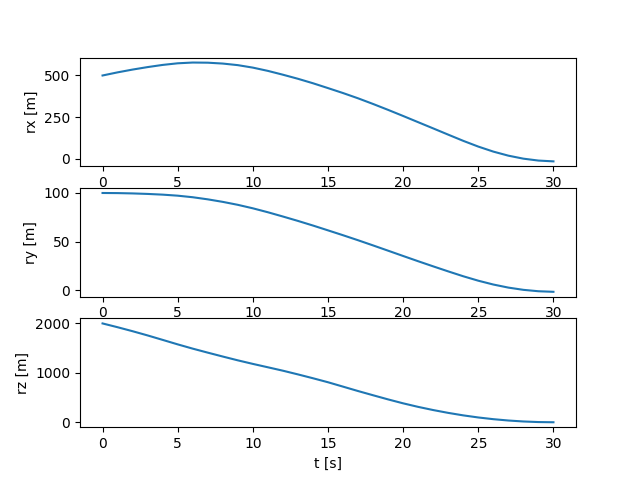
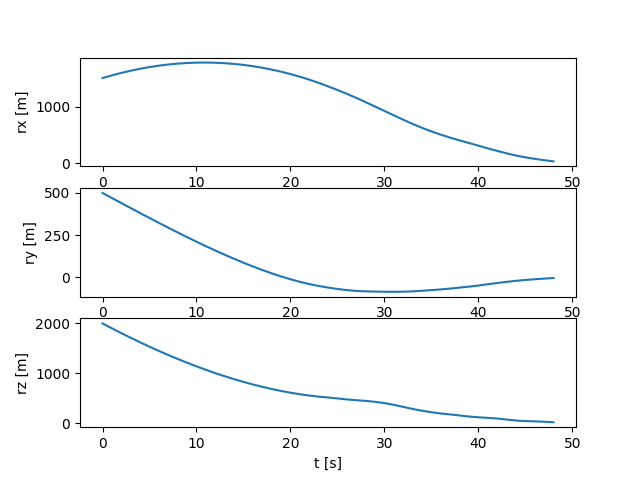
trying new mpc with constant N

diff --git a/gfold/3dof_mpc_constantN_2.py b/gfold/3dof_mpc_constantN_2.py
@@ -55,7 +55,7 @@ def run_mpc(  N,                # receding horizon (parameter)
               α, ρ1, ρ2,        # Constraint parameters
               r0, v0, wet_mass, # initial constraints (parameters)
               rf, vf,           # terminal contraints
-              dt, g, γ, θ, n    # constants
+              dt, g, γ, θ, n, m_dry    # constants
     ):
     # CVX variables
     r = cp.Variable((N,3))
@@ -65,14 +65,23 @@ def run_mpc(  N,                # receding horizon (parameter)
     σ = cp.Variable(N)
     
     ## Objective
-    objective = cp.Minimize(-z[N-1])
+    objective = 0
+    objective += -z[N-1]
+    objective += 1000*cp.norm2(rf - r[N-1])
+    objective += 1000*cp.norm2(vf - v[N-1])
+    
+    # Try to get to goal at each time step
+    for i in range(N):
+        objective += 100*cp.norm2(rf - r[i])
+        objective += 100*cp.norm2(vf - v[i])
     
     constraints = []
     
     ## Terminal Constraints
     constraints += [
-        r[N-1] == rf,
-        v[N-1] == vf
+        # r[N-1] == rf,
+        # v[N-1] == vf,
+        z[N-1] >= np.log(m_dry)
     ]
     
     ## Initial Condition Constraints
@@ -121,6 +130,7 @@ def run_mpc(  N,                # receding horizon (parameter)
         ]
 
     ## Solve Problem
+    objective = cp.Minimize(objective)
     prob = cp.Problem(objective,constraints)
     prob.solve()
     status = prob.status
@@ -163,7 +173,7 @@ def run_mpc(  N,                # receding horizon (parameter)
 
 g0 = 9.80665
 dry_mass = 20569
-wet_mass = 28000 # Assumed from start of landing burn
+wet_mass = 30000 # Assumed from start of landing burn
 Isp = 260
 max_throttle = 0.8 # Safety
 min_throttle = 0.1
@@ -196,6 +206,8 @@ ts = np.arange(0,tf+dt,dt)
 
 N = N0
 
+N_fixed = 20
+
 ## Looping vars
 s = 7
 m = 3
@@ -215,7 +227,7 @@ objective_choice = 'fuel_opt'
 
 for t in tqdm(range(N0-1)):
     # Solve Convex Problem
-    r, v, mass, u, status = run_mpc(N, α, ρ1, ρ2, r0, v0, wet_mass,rf, vf, dt, g, γ, θ, n)
+    r, v, mass, u, status = run_mpc(N_fixed, α, ρ1, ρ2, r0, v0, wet_mass,rf, vf, dt, g, γ, θ, n, dry_mass)
     
     if status == 'infeasible':
         break
@@ -234,11 +246,15 @@ for t in tqdm(range(N0-1)):
     r0 = x_hist[t+1, 0:3]
     v0 = x_hist[t+1, 3:6]
     wet_mass = x_hist[t+1,6]
-    
+
+print(r0)
+print(v0)
+print(wet_mass)
+
 ## Use LQR to track remaining trajectory
 print("Finish up what's left with LQR tracking")
-Q = 1000*np.identity(s)
-Q[2,2] = 10000
+Q = 10000*np.identity(s)
+Q[2,2] = 100000
 R = 0.01*np.identity(m)
 closed_loop = True
 
